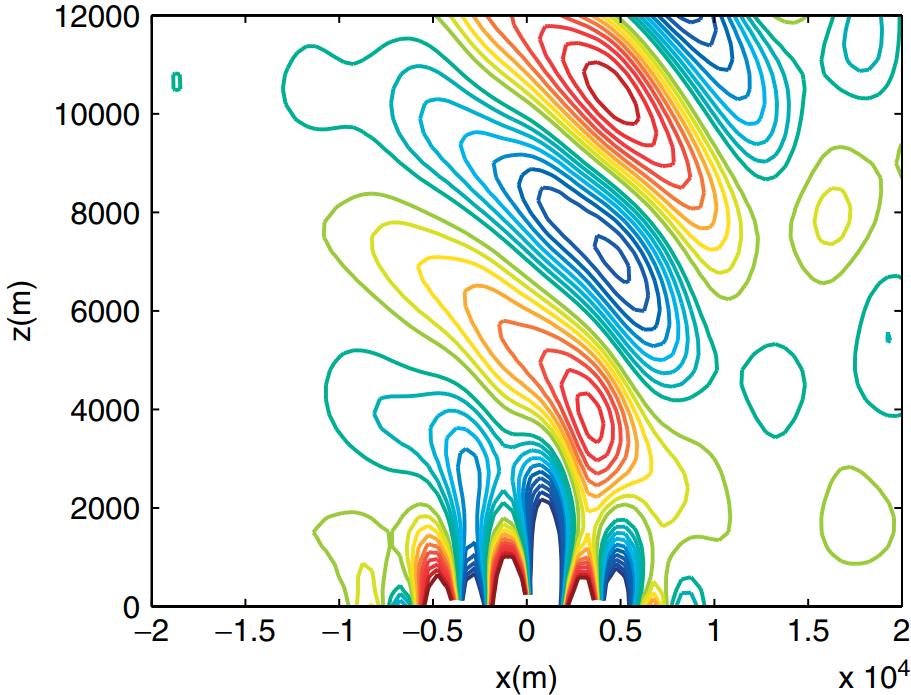
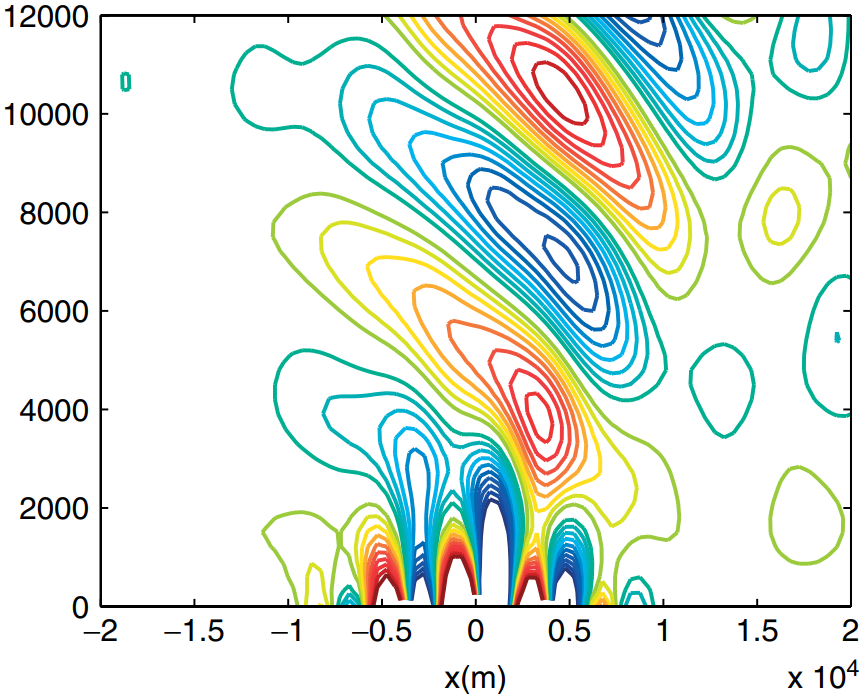
add schaerWaves-btf-300dz-linearUpwind w contour plot

diff --git a/generators/schaerWaves.py b/generators/schaerWaves.py
@@ -1,9 +1,27 @@
+from ninjaopenfoam import Case, GmtPlot, GmtPlotCopyCase
+
 class SchaerWaves:
     def __init__(self):
-        pass
+        self.btf300dzLinearUpwind = GmtPlotCopyCase(
+                'schaerWaves-btf-300dz-linearUpwind',
+                source='$atmostests_builddir',
+                target='$builddir',
+                plots=['src/thesis/slanted/schaerWaves/w.gmtdict'],
+                files=['18000/Uf'])
+
+        btf300dzLinearUpwindCase = Case('schaerWaves-btf-300dz-linearUpwind')
+
+        self.btf300dzLinearUpwindW = GmtPlot(
+            'schaerWaves-btf-300dz-linearUpwind-w',
+            plot='w',
+            case=btf300dzLinearUpwindCase,
+            time=18000,
+            data=['18000/Uf'])
 
     def outputs(self):
-        return ['src/thesis/slanted/schaerWaves/melvin2010-w-mass-conserving-sisl.png']
+        return ['src/thesis/slanted/schaerWaves/melvin2010-w-mass-conserving-sisl.png'] \
+             + self.btf300dzLinearUpwindW.outputs()
 
     def addTo(self, build):
-        pass
+        build.add(self.btf300dzLinearUpwind)
+        build.add(self.btf300dzLinearUpwindW)

diff --git a/src/thesis/slanted/schaerWaves.tex b/src/thesis/slanted/schaerWaves.tex
@@ -14,12 +14,14 @@
 \begin{figure}
 	\centering
 	\begin{subfigure}{0.48\textwidth}
+		% TODO: move this subfigure into its own pdf and annotate GmtPlot axes
 		\centering
+		\includegraphics{schaerWaves-btf-300dz-linearUpwind/18000/w.pdf}
 		\TODO{linearUpwind}
 	\end{subfigure}
 	\begin{subfigure}{0.48\textwidth}
 		\centering
-		\includegraphics[width=\textwidth]{slanted/schaerWaves/melvin2010-w-mass-conserving-sisl.png}
+		\includegraphics[height=2in]{slanted/schaerWaves/melvin2010-w-mass-conserving-sisl.png}
 		\caption{\citep{melvin2010}}
 		\label{fig:slanted:schaerWaves:w:melvin}
 	\end{subfigure}
